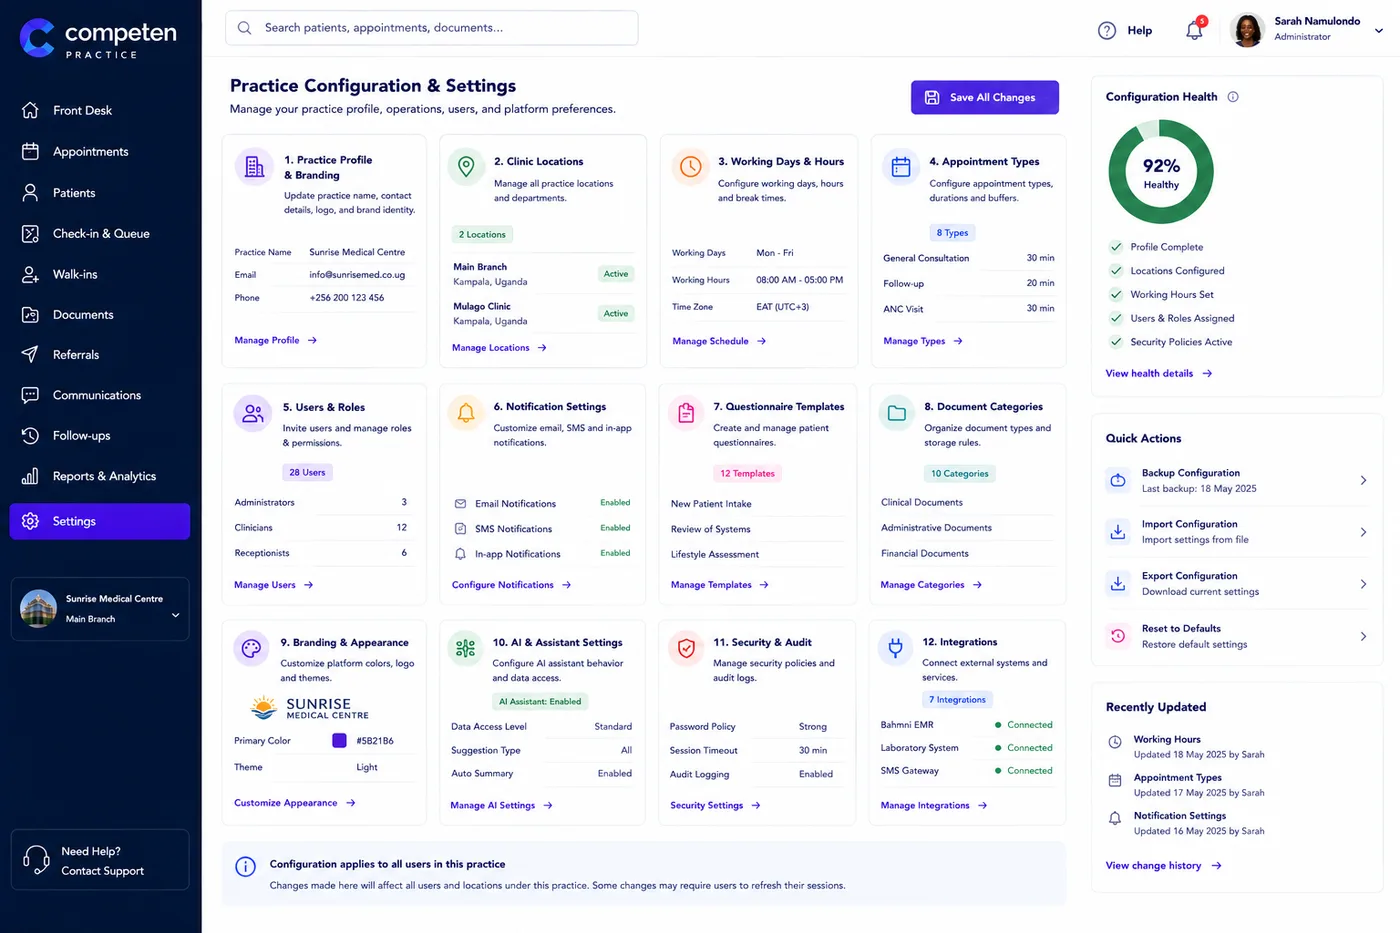
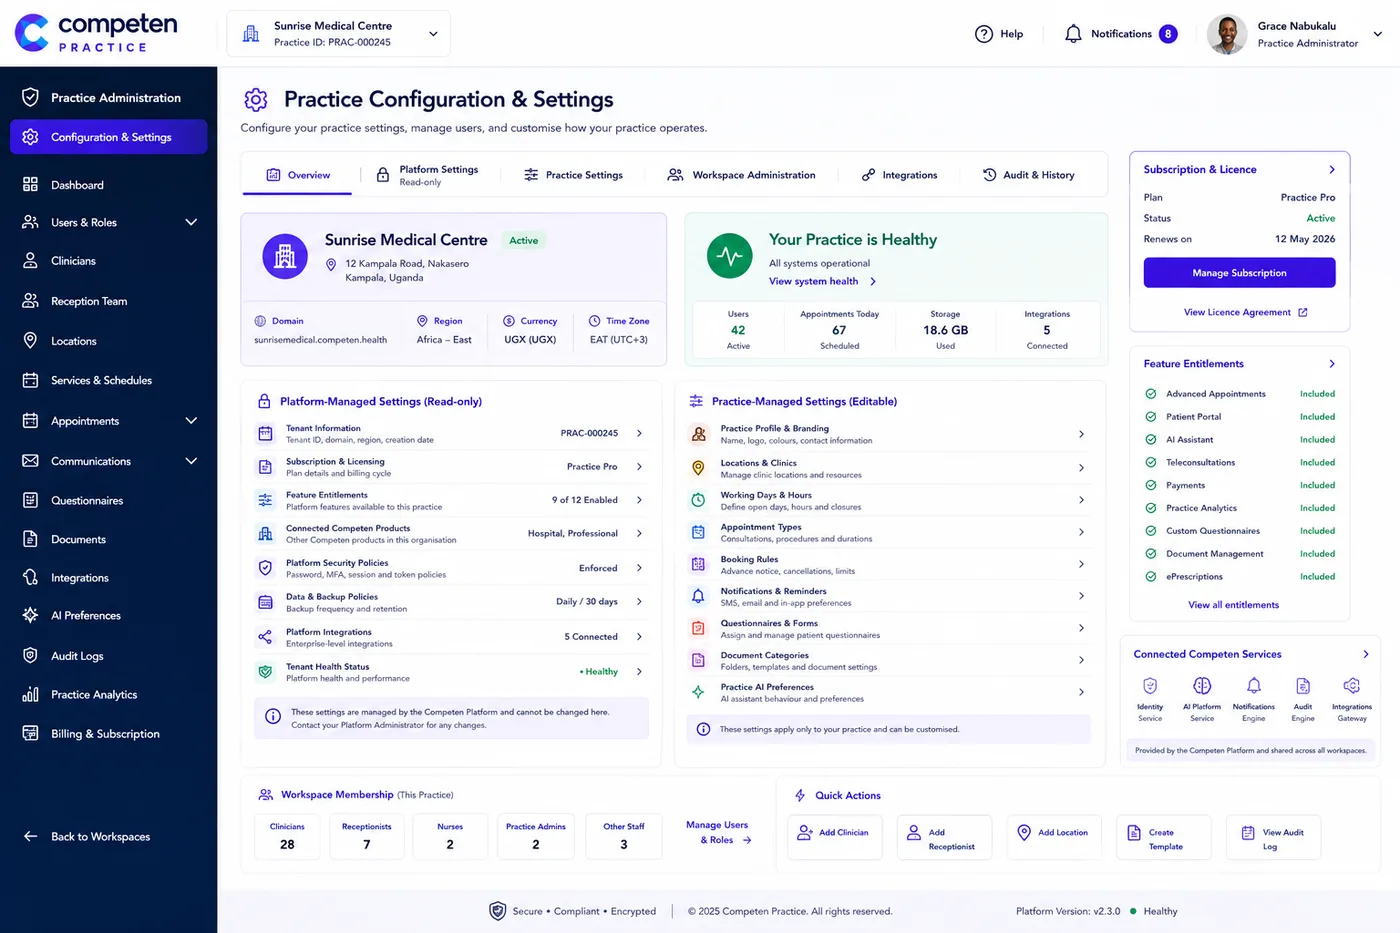
Update /practice for CPR-019 Revision 2 and CPR-000A
CPR-019 Rev 2 splits configuration in two -- what the practice administrator
edits, and what the platform holds read-only (tenant identity, licence,
entitlements, security and backup policy, regional deployment). That split is
the point of the revision, so it is now the shape of /practice/setup rather
than a line inside it. The read-only half is written as relief: for a
four-clinician practice with no IT department, "you cannot change the security
policy" is the feature. Adds workspace administration, licence visibility and
config version history; the page now leads "You run the practice. We run the
platform." The Revision 2 mockup replaces the original settings screen.

CPR-000A is an internal architecture paper and MOST OF IT STAYS INTERNAL. It
draws the platform operations control plane, enumerates the super
administrator's powers including audited support impersonation, and names the
internal architectures it bridges. What reaches the public page is only what
the architecture BUYS a clinic: tenant isolation (section 8), one identity
across the workspaces they belong to (section 10), and enterprise services they
do not have to run (section 9) -- plus a plain statement of who can change
what. Its diagram is deliberately NOT published; an image is a disclosure even
though no text harness can read one.

So the harness gains two assertions, both proven to fail:

  - 3d, on every practice page: no internal platform vocabulary. Guards a
[…]

diff --git a/src/lib/marketing/practice-content.ts b/src/lib/marketing/practice-content.ts
@@ -1,6 +1,7 @@
 // Competen Practice -- public product section (/practice and its six capability pages).
 //
-// DERIVED FROM CPR-000 through CPR-020. Those are DEVELOPER specifications: they are written in states,
+// DERIVED FROM CPR-000, CPR-000A and CPR-001 through CPR-020 (CPR-019 at Revision 2). Those are DEVELOPER
+// specifications: they are written in states,
 // business rules, permissions and acceptance criteria. None of that belongs on a marketing page, so what
 // travels across is the OUTCOME each module produces for the person paying for it. The `modules` field on
 // each area records which specs it came from -- it is never rendered, it exists so
@@ -114,6 +115,49 @@ export const INTEGRATIONS: { name: string; body: string; inV1: boolean }[] = [
 export const INTEGRATION_NOTE =
   "Version 1 covers identity, notifications and document storage. The rest is on the roadmap, and the " +
   "architecture is built for it -- REST APIs, webhooks and an FHIR-ready data layer.";
+
+/**
+ * CPR-000A Enterprise Integration Architecture, reduced to the part a clinic buying this actually needs.
+ *
+ * MOST OF CPR-000A IS NOT PUBLIC AND MUST NOT BECOME PUBLIC. It draws the platform operations control
+ * plane, enumerates the super-administrator's powers including audited support impersonation, and names
+ * the internal architectures it bridges. WEB-STRAT-001 forbids disclosing that layer, and separately, a
+ * marketing page that volunteers "we can impersonate your users" answers a question nobody asked in the
+ * worst possible venue. Its accompanying diagram is deliberately NOT published either -- an image is a
+ * disclosure even though no text harness can read one.
+ *
+ * What IS public here is what the architecture BUYS the practice: isolation from every other tenant, one
+ * identity across the workspaces a clinician belongs to, and enterprise services underneath that a
+ * four-clinician practice could never stand up alone. Those are sections 8, 10 and 9 respectively.
+ */
+export const TENANT_MODEL = {
+  title: "Your practice is your own.",
+  body:
+    "Competen Practice runs on the Competen platform, but your practice is a tenant of its own. That is " +
+    "an architectural boundary, not a setting somebody could switch off by mistake.",
+  pillars: [
+    {
+      title: "Nothing crosses to another practice",
+      body: "Your users, patients, appointments, documents and analytics are isolated. No other practice can see them, and no data is shared between tenants.",
+      points: ["Isolated users and patients", "Isolated appointments and documents", "Isolated analytics", "No cross-tenant visibility"],
+    },
+    {
+      title: "One sign-in, wherever you work",
+      body: "A clinician who works shifts at a hospital and runs a private clinic has one identity, not three. Switch between the workspaces you belong to without signing in again.",
+      points: ["Single identity and sign-on", "Switch without re-authenticating", "Each workspace enforces its own permissions", "Access follows your memberships"],
+    },
+    {
+      title: "Enterprise plumbing you do not run",
+      body: "Authentication, audit and compliance, notifications, AI services, the API gateway and monitoring sit underneath your practice and are maintained for you.",
+      points: ["Authentication and access control", "Audit and compliance records", "Notification delivery", "Monitoring and API access"],
+    },
+  ],
+  // CPR-000A section 7 and CPR-019 Rev 2's governance rules, stated plainly. It is the honest answer to
+  // "so who can actually change things", and it cuts both ways on purpose.
+  boundary:
+    "Your practice administrator manages your clinicians, calendars, rules and branding, and cannot reach " +
+    "another practice or change platform-wide policy. Every administrative action is audited.",
+};
 
 export const PRACTICE_CTA = {
   title: "See it with your own clinic in mind.",
@@ -288,29 +332,37 @@ export const PRACTICE_AREAS: PracticeArea[] = [
     ],
   },
 
-  // ── CPR-019 Practice Configuration, CPR-020 Integrations ─────────────────────────────────────────────
+  // ── CPR-019 Rev 2 Practice Configuration, CPR-020 Integrations ───────────────────────────────────────
+  // Revision 2 splits configuration in two: what the practice administrator edits, and what the platform
+  // holds read-only (tenant identity, licence, entitlements, security and backup policy, regional
+  // deployment). That split is the whole point of the revision, so it is the shape of this page rather
+  // than a line inside it -- and the read-only half is written as relief, because for a four-clinician
+  // practice with no IT department "you cannot change the security policy" is the feature.
   {
     slug: "setup",
     nav: "Setup & connections",
     eyebrow: "Setup & connections",
-    headline: ["Configure it your way.", "Connect what you already run."],
+    headline: ["You run the practice.", "We run the platform."],
     body:
-      "Locations, hours, appointment types, users, templates and branding are settings rather than support " +
-      "tickets. And where you already have systems, Practice talks to them.",
+      "Locations, hours, appointment types, users and templates are yours to change, from a settings " +
+      "screen rather than a support ticket. Security policy, backups and licensing are ours -- and where " +
+      "you already have systems, Practice talks to them.",
     accent: "#0E7490",
     icon: "\u{1F517}",
-    blurb: "Multi-location setup without a developer, role-based access, and standards-based links to the systems you run.",
+    blurb: "Everything the practice controls, everything it never has to, and standards-based links to the systems you already run.",
     modules: ["CPR-019", "CPR-020"],
     outcomes: [
-      { title: "Set up without writing code", body: "Practice profile, clinic locations, working hours, appointment types, document categories and questionnaire templates -- edited by your administrator." },
-      { title: "People and permissions", body: "Invite users, assign roles, and know that reception cannot alter clinical records. Every change to a critical setting is logged and versioned." },
-      { title: "Your brand, your languages", body: "Practice logo, colours and notification templates, in the languages your patients read." },
+      { title: "What you control", body: "Practice profile and branding, clinic locations, working days and hours, appointment types and durations, booking rules, notification preferences, questionnaire templates, document categories and assistant preferences." },
+      { title: "What you never have to", body: "Tenant identity, subscription and licence, feature entitlements, regional deployment, security and password policy, backup and retention. Held by the platform, visible to you, and not your job to maintain." },
+      { title: "Add your own team", body: "Create clinician and receptionist accounts, assign workspace membership, adjust local permissions and deactivate someone the day they leave -- without raising a ticket." },
+      { title: "Your licence in plain sight", body: "Plan, status, renewal date and exactly which features are included, on the same screen as the settings they govern. No guessing what you are paying for." },
+      { title: "Every change versioned", body: "Configuration carries version history and an audit record of who changed what and when. Critical changes ask for confirmation before they take effect." },
       { title: "Multiple sites, one practice", body: "Each location keeps its own hours, rooms and calendar while the practice keeps one patient list." },
       { title: "Standards-based exchange", body: "REST APIs, webhooks, import and export tools, and an FHIR-ready data layer for connecting to an EMR rather than replacing it." },
       { title: "Connections you can watch", body: "Health status per connection, retry queues for failures, and an audit record of every exchange with an outside system." },
     ],
     screens: [
-      { src: "/images/practice/settings.webp", alt: "Practice configuration showing profile, locations, working hours, appointment types, users, notifications, templates and security settings", caption: "Twelve areas of practice setup, with a health check on what is still incomplete." },
+      { src: "/images/practice/settings.webp", alt: "Practice configuration showing platform-managed read-only settings beside practice-managed editable settings, with subscription, feature entitlements and workspace membership", caption: "Read-only on the left, yours to edit on the right -- and the licence beside both." },
       { src: "/images/practice/integrations.webp", alt: "The integrations workspace showing connected systems, their sync status, data flow volumes and recent integration activity", caption: "Connected systems, their health, and what has actually moved in the last day." },
     ],
   },

diff --git a/scripts/practice-content-harness.ts b/scripts/practice-content-harness.ts
@@ -27,7 +27,7 @@
 import { existsSync } from "node:fs";
 import { join } from "node:path";
 import {
-  PRACTICE_AREAS, INTEGRATIONS, PREVIEW_NOTE, MODULES_WITHOUT_SPECS, PRACTICE_HERO,
+  PRACTICE_AREAS, INTEGRATIONS, PREVIEW_NOTE, MODULES_WITHOUT_SPECS, PRACTICE_HERO, TENANT_MODEL,
 } from "../src/lib/marketing/practice-content";
 
 const BASE = process.env.BASE_URL ?? "http://localhost:3000";
@@ -48,6 +48,21 @@ const FORBIDDEN = [
   "Competency Management", "Workforce Management", "Executive Intelligence",
   "Recruitment platform", "Learning platform", "Competency Studio", "Assessment Studio",
   "AI platform", "Platform operations", "Configuration, integration",
+];
+
+// VOCABULARY FROM THE SOURCE DOCUMENTS THAT MUST NOT REACH A VISITOR.
+//
+// CPR-000A and CPR-019 Revision 2 are internal architecture papers. They describe the landlord control
+// plane, the super-administrator's power to suspend a tenant and to open an audited impersonation session,
+// and the internal architectures being bridged. Those sentences are RIGHT THERE in the material this page
+// was written from, which makes them a copy-paste away from the public site at every future edit -- and
+// "we can impersonate your users" is not a claim a clinic should first meet on a marketing page.
+//
+// This is a separate assertion from FORBIDDEN because it guards a different risk: not a product name that
+// competitors should not see, but internal machinery that a CUSTOMER should not be handed unprompted.
+const INTERNAL_VOCABULARY = [
+  "landlord", "control plane", "impersonat", "super administrator", "super admin",
+  "tenant lifecycle", "suspend", "maintenance mode", "telemetry", "LCP", "PSA",
 ];
 
 function visibleText(html: string): string {
@@ -116,6 +131,11 @@ async function main() {
 
     // HONESTY RULE 1. Every page here renders mockups; every one of them must say so.
     ok(`3c. ${path} labels its screens as previews`, text.includes(PREVIEW_NOTE));
+
+    // Case-insensitive and substring, so "Impersonation", "impersonate" and "Landlord Control Plane" all
+    // trip it. Word-boundary matching would let a plural or a participle through.
+    const internal = INTERNAL_VOCABULARY.filter(w => text.toLowerCase().includes(w.toLowerCase()));
+    ok(`3d. ${path} leaks no internal platform vocabulary`, internal.length === 0, internal.join(", "));
   }
 
   // ── 4. NAVIGATION: catalogue, nav and routes agree ────────────────────────────────────────────────
@@ -152,6 +172,20 @@ async function main() {
   });
   ok("5c. Version 1 integrations are NOT labelled as roadmap", overLabelled.length === 0,
     overLabelled.map(i => i.name).join(", "));
+
+  // ── 5d. CPR-000A: the tenant model renders, and its diagram does NOT ──────────────────────────────
+  for (const p of TENANT_MODEL.pillars) {
+    ok(`5d. /practice states "${p.title}"`, overviewText.includes(p.title));
+  }
+  ok("5e. /practice states who can change what", overviewText.includes(TENANT_MODEL.boundary.slice(0, 60)));
+
+  // The enterprise architecture diagram draws the control plane and the full product ecosystem. It must
+  // not be published, and an image cannot be caught by any text assertion above -- so its absence from the
+  // built assets is asserted directly.
+  const architectureLeaks = ["architecture", "cpr-000a", "ecosystem", "control-plane"]
+    .filter(n => existsSync(join(process.cwd(), "public", "images", "practice", `${n}.webp`)));
+  ok("5f. the enterprise architecture diagram is not published", architectureLeaks.length === 0,
+    architectureLeaks.join(", "));
 
   // ── 6. the images are actually served, not merely present ─────────────────────────────────────────
   const notServed: string[] = [];

diff --git a/src/app/practice/page.tsx b/src/app/practice/page.tsx
@@ -5,10 +5,10 @@ import PracticeNav from "@/components/marketing/PracticeNav";
 import { PatternField } from "@/components/marketing/Pattern";
 import {
   PRACTICE_ACCENT, PRACTICE_ACCENT_DARK, PRACTICE_HERO, PRACTICE_PROMISES, NOT_AN_EMR, PATIENT_JOURNEY,
-  PRACTICE_AREAS, PRACTICE_ROLES, INTEGRATIONS, INTEGRATION_NOTE, PRACTICE_CTA, PREVIEW_NOTE,
+  PRACTICE_AREAS, PRACTICE_ROLES, TENANT_MODEL, INTEGRATIONS, INTEGRATION_NOTE, PRACTICE_CTA, PREVIEW_NOTE,
 } from "@/lib/marketing/practice-content";
 
-// Competen Practice -- the product overview page, derived from CPR-000 through CPR-020.
+// Competen Practice -- the product overview page, derived from CPR-000, CPR-000A and CPR-001..020.
 //
 // This replaces the shared SolutionPage template that /practice used to render. The other four landing
 // pages are still one page each; Practice is a product with six capability pages behind it, and a template
@@ -194,6 +194,38 @@ export default function Page() {
               Larger groups can add an organisation administrator across multiple practices.
             </p>
           </div>
+        </section>
+
+        {/* ── TENANT MODEL (CPR-000A) ──────────────────────────────────────
+            Only the part of the enterprise architecture that a buying clinic needs: isolation, one
+            identity, and services they do not have to run. The control plane, the super-administrator's
+            powers and the architecture diagram itself stay off the public site -- see TENANT_MODEL. */}
+        <section className={`${container} py-12 lg:py-16`}>
+          <div className="max-w-2xl">
+            <h2 className="text-[1.6rem] font-bold tracking-tight text-gray-900">{TENANT_MODEL.title}</h2>
+            <p className="mt-2 text-[14px] leading-relaxed text-gray-600">{TENANT_MODEL.body}</p>
+          </div>
+          <ul className="mt-8 grid gap-5 lg:grid-cols-3">
+            {TENANT_MODEL.pillars.map(p => (
+              <li key={p.title} className="flex flex-col rounded-2xl border border-gray-200 bg-white p-6">
+                <h3 className="text-[16px] font-bold text-gray-900">{p.title}</h3>
+                <p className="mt-2 flex-1 text-[13px] leading-relaxed text-gray-600">{p.body}</p>
+                <ul className="mt-4 space-y-2 border-t border-gray-100 pt-4">
+                  {p.points.map(pt => (
+                    <li key={pt} className="flex gap-2.5 text-[12.5px] leading-snug text-gray-700">
+                      <span aria-hidden className="mt-0.5 w-3.5 h-3.5 shrink-0 rounded-full flex items-center justify-center text-[8px] text-white"
+                        style={{ background: PRACTICE_ACCENT }}>✓</span>
+                      {pt}
+                    </li>
+                  ))}
+                </ul>
+              </li>
+            ))}
+          </ul>
+          <p className="mt-6 max-w-3xl text-[13px] leading-relaxed text-gray-600">
+            <span className="font-semibold text-gray-900">Who can change what.</span>{" "}
+            {TENANT_MODEL.boundary}
+          </p>
         </section>
 
         {/* ── INTEGRATIONS ─────────────────────────────────────────────────
